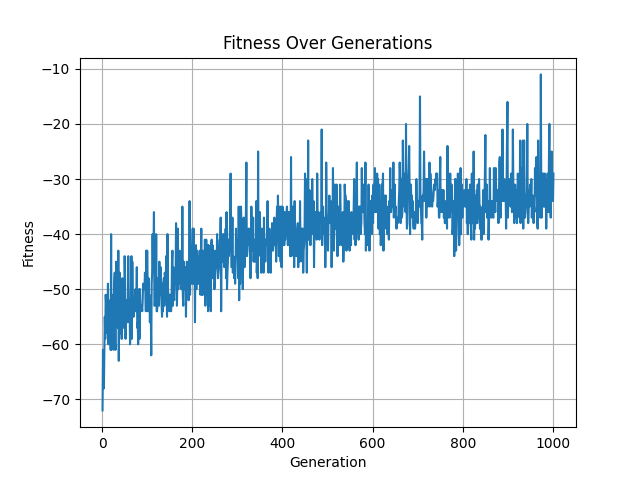
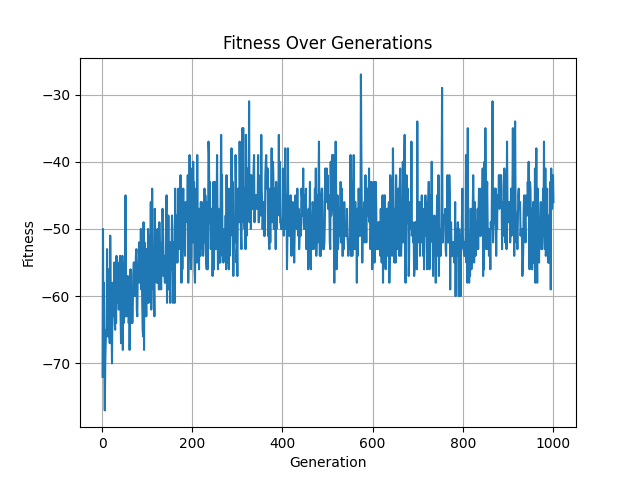
added count to state, attempted new crossover function and reworked fitness function

diff --git a/project/ea.py b/project/ea.py
@@ -8,9 +8,9 @@ import pickle
 
 K = 20
 SEED = 42
-POP_SIZE = 200
+POP_SIZE = 100
 TABLE_SIZE = (16*10)+(8*10)+(10*10)
-MU = 1 / TABLE_SIZE
+MU = 3 / TABLE_SIZE
 MAX_GENS = 1000
 NR_ROUNDS = 100
 CROSSOVER = True
@@ -21,6 +21,128 @@ def initialise_population():
     for _ in range(POP_SIZE):
         population.append(Agent())
     return population
+
+def run_experiment(population):
+    i = 1
+    for agent in population:
+        #print(f'{i}')
+        i += 1
+        agent.playGame(NR_ROUNDS)
+
+def calc_population_fitness(population):
+    pop_fitness = []
+    for individual in population:
+        pop_fitness.append(individual.getAgentFitness(NR_ROUNDS))
+    return pop_fitness
+
+def get_parents_with_fitness(pop_with_fitness):
+    sample = random.choices(pop_with_fitness, k=K)
+    parent0 = max(sample, key=lambda item: item[1])[0]
+    sample = random.choices(pop_with_fitness, k=K)
+    parent1 = max(sample, key=lambda item: item[1])[0]
+    return (parent0, parent1)
+
+def find_fittest(population):
+    highest = -sys.maxsize - 1
+    best_agent = None
+    for agent in population:
+        fitness = agent.getAgentFitness(NR_ROUNDS)
+        if fitness > highest:
+            highest = fitness
+            best_agent = agent
+    return best_agent, highest
+        
+def crossover_rows(a, b):
+    a_tables = a.decision_tables.getAllTables()
+    b_tables = b.decision_tables.getAllTables()
+
+    child1_tables = []
+    child2_tables = []
+
+    for (table_a, table_b) in list(zip(a_tables, b_tables)):
+        # Get the dimensions of the arrays
+        rows, cols = table_a.shape
+
+        # Randomly select the row index for crossover
+        crossover_point = random.randint(1, rows-2)
+
+        # Initialize an empty array to store the result
+        child1_table = np.empty((rows, cols), dtype=table_a.dtype)
+        child2_table = np.empty((rows, cols), dtype=table_a.dtype)
+
+        # Copy rows from array a and b based on the crossover point
+        child1_table[:crossover_point, :] = table_a[:crossover_point, :]
+        child1_table[crossover_point:, :] = table_b[crossover_point:, :]
+
+        child2_table[:crossover_point, :] = table_b[:crossover_point, :]
+        child2_table[crossover_point:, :] = table_a[crossover_point:, :]
+
+        child1_tables.append(child1_table)
+        child2_tables.append(child2_table)
+
+    child1 = Agent(decision_tables=DecisionTables(all_tables=child1_tables))
+    child2 = Agent(decision_tables=DecisionTables(all_tables=child2_tables))
+
+    return [child1, child2]
+
+def crossover_quadrants(a, b):
+    a_tables = a.decision_tables.getAllTables()
+    b_tables = b.decision_tables.getAllTables()
+
+    child1_tables = []
+    child2_tables = []
+
+    for (table_a, table_b) in list(zip(a_tables, b_tables)):
+        rows, cols = table_a.shape
+
+        c_row = random.randint(1, rows-2)
+        c_col = random.randint(1, cols-2)
+
+        # Initialize an empty array to store the result
+        child1_table = np.empty((rows, cols), dtype=table_a.dtype)
+        child2_table = np.empty((rows, cols), dtype=table_b.dtype)
+
+        # Copy the children from four quadrants
+        # # Quadrant 1
+        child1_table[:c_row, :c_col] = table_a[:c_row, :c_col]
+        child2_table[:c_row, :c_col] = table_b[:c_row, :c_col]
+
+        # # Quadrant 2
+        child1_table[c_row:, :c_col] = table_b[c_row:, :c_col]
+        child2_table[c_row:, :c_col] = table_a[c_row:, :c_col]
+
+        # # Quadrant 3
+        child1_table[:c_row, c_col:] = table_a[:c_row, c_col:]
+        child2_table[:c_row, c_col:] = table_b[:c_row, c_col:]
+
+        # # Quadrant 4
+        child1_table[c_row:, c_col:] = table_b[c_row:, c_col:]
+        child2_table[c_row:, c_col:] = table_a[c_row:, c_col:]
+
+        child1_tables.append(child1_table)
+        child2_tables.append(child2_table)
+
+    child1 = Agent(decision_tables=DecisionTables(all_tables=child1_tables))
+    child2 = Agent(decision_tables=DecisionTables(all_tables=child2_tables))
+
+    return [child1, child2]
+
+
+def mutate(agent):
+    tables = agent.decision_tables.getAllTables()
+    for table_num, table in enumerate(tables):
+        for x_pos, x in enumerate(table):
+            for y_pos, y in enumerate(x):
+                if random.random() <= MU:
+                    if table_num == LOOKUP_PAIR: # If pairs table
+                        new_action = random.choice(list(Actions))
+                    else:
+                        new_action = random.choice([Actions.HT,Actions.ST, Actions.DH, Actions.DS])
+                    tables[table_num][x_pos][y_pos] = new_action
+    new_agent = Agent(tables)
+    return new_agent
+
+crossover = crossover_quadrants
 
 def evolutionary_algorithm():
     # Step 1: Population of candidate solutions
@@ -53,91 +175,6 @@ def evolutionary_algorithm():
     fitness_over_gen.append(find_fittest(population))
     return fitness_over_gen
 
-def run_experiment(population):
-    i = 1
-    for agent in population:
-        #print(f'{i}')
-        i += 1
-        agent.playGame(NR_ROUNDS)
-
-def calc_population_fitness(population):
-    pop_fitness = []
-    for individual in population:
-        pop_fitness.append(individual.getAgentFitness())
-    return pop_fitness
-
-def get_parents_with_fitness(pop_with_fitness):
-    sample = random.choices(pop_with_fitness, k=K)
-    parent0 = max(sample, key=lambda item: item[1])[0]
-    sample = random.choices(pop_with_fitness, k=K)
-    parent1 = max(sample, key=lambda item: item[1])[0]
-    return (parent0, parent1)
-
-def find_fittest(population):
-    highest = -sys.maxsize - 1
-    best_agent = None
-    for agent in population:
-        fitness = agent.getAgentFitness()
-        if fitness > highest:
-            highest = fitness
-            best_agent = agent
-    return best_agent, highest
-        
-def crossover(a, b):
-    a_tables = a.decision_tables.getAllTables()
-    b_tables = b.decision_tables.getAllTables()
-
-    assert(len(a_tables) == len(b_tables))
-
-    child1_tables = []
-    child2_tables = []
-
-    parents_tables = list(zip(a_tables, b_tables))
-    for i, (table_a, table_b) in enumerate(parents_tables):
-        # Get the dimensions of the arrays
-        rows, cols = table_a.shape
-
-        # Randomly select the row index for crossover
-        crossover_point = np.random.randint(1, rows)
-
-        # Initialize an empty array to store the result
-        child1_table = np.empty((rows, cols), dtype=table_a.dtype)
-        child2_table = np.empty((rows, cols), dtype=table_a.dtype)
-
-        # Copy rows from array a and b based on the crossover point
-        child1_table[:crossover_point, :] = table_a[:crossover_point, :]
-        child1_table[crossover_point:, :] = table_b[crossover_point:, :]
-
-        child2_table[:crossover_point, :] = table_b[:crossover_point, :]
-        child2_table[crossover_point:, :] = table_a[crossover_point:, :]
-
-        child1_tables.append(child1_table)
-        child2_tables.append(child2_table)
-
-    assert(len(a_tables) == len(child1_tables))
-    assert(len(b_tables) == len(child2_tables))
-    assert(len(child1_tables) == 3)
-    assert(len(child2_tables) == 3)
-
-    child1 = Agent(decision_tables=DecisionTables(child1_tables[0], child1_tables[1], child1_tables[2]))
-    child2 = Agent(decision_tables=DecisionTables(child2_tables[0], child2_tables[1], child2_tables[2]))
-
-    return [child1, child2]
-
-def mutate(agent):
-    tables = agent.decision_tables.getAllTables()
-    for table_num, table in enumerate(tables):
-        for x_pos, x in enumerate(table):
-            for y_pos, y in enumerate(x):
-                if random.random() <= MU:
-                    if table_num == LOOKUP_PAIR: # If pairs table
-                        new_action = random.choice(list(Actions))
-                    else:
-                        new_action = random.choice([Actions.HT,Actions.ST, Actions.DH, Actions.DS])
-                    tables[table_num][x_pos][y_pos] = new_action
-    new_agent = Agent(tables)
-    return new_agent
-
 def plot_fitness_over_generations(fitnesses):
     generations = range(1, len(fitnesses) + 1)
     plt.plot(generations, fitnesses)
@@ -154,6 +191,7 @@ def save_agent_to_file(agent, filename_txt, filename_pickle):
         pickle.dump(agent, file) # Pickling in case we want to run experiments on the best agent.
 
 def main():
+    random.seed(SEED)
     agent_fitness_pairs = evolutionary_algorithm()
     agents, fitnesses = zip(*agent_fitness_pairs)
     print(f'Fittest agent: {fitnesses[-1]}\nDecision tables: {str(agents[-1])}')

diff --git a/project/game.py b/project/game.py
@@ -66,6 +66,14 @@ class Card:
             case 13: rank = "K"
             case _:  rank = str(self.rank)
         return suit+rank
+    
+    def count(self):
+        if self.rank <= 6:
+            return 1
+        if self.rank >= 7 and self.rank <= 9:
+            return 0
+        if self.rank >= 10:
+            return -1
 
 class Hand:
     def __init__(self, hand=[]):
@@ -151,11 +159,14 @@ class Blackjack:
         self.dealer_hand = Hand()
         self.dealer_reshuffle = False
 
+        self.count = 0
+
     def startGame(self):
         self.player_hands = []
         self.dealer_hand = Hand()
         if self.dealer_reshuffle:
             self.shuffleDeck()
+            self.count = 0
         self.player_hands.append(Hand([self.drawCard(), self.drawCard()]))
         self.dealer_hand = Hand([self.drawCard(), self.drawCard()])
         if self.dealer_hand.isBlackjack():
@@ -281,6 +292,7 @@ class Blackjack:
         if drawn == RESHUFFLE_CARD:
             self.dealer_reshuffle = True
             drawn = self.drawCard()
+        self.count += drawn.count()
         return drawn
     
     def payout(self, verbose=False):

diff --git a/project/agent.py b/project/agent.py
@@ -14,7 +14,7 @@ class Agent:
         else:
             self.decision_tables = decision_tables 
         
-    def getAgentFitness(self):
+    def getAgentFitness(self, nr_rounds):
         return self.score
     
     def getAgentStrategy(self):
